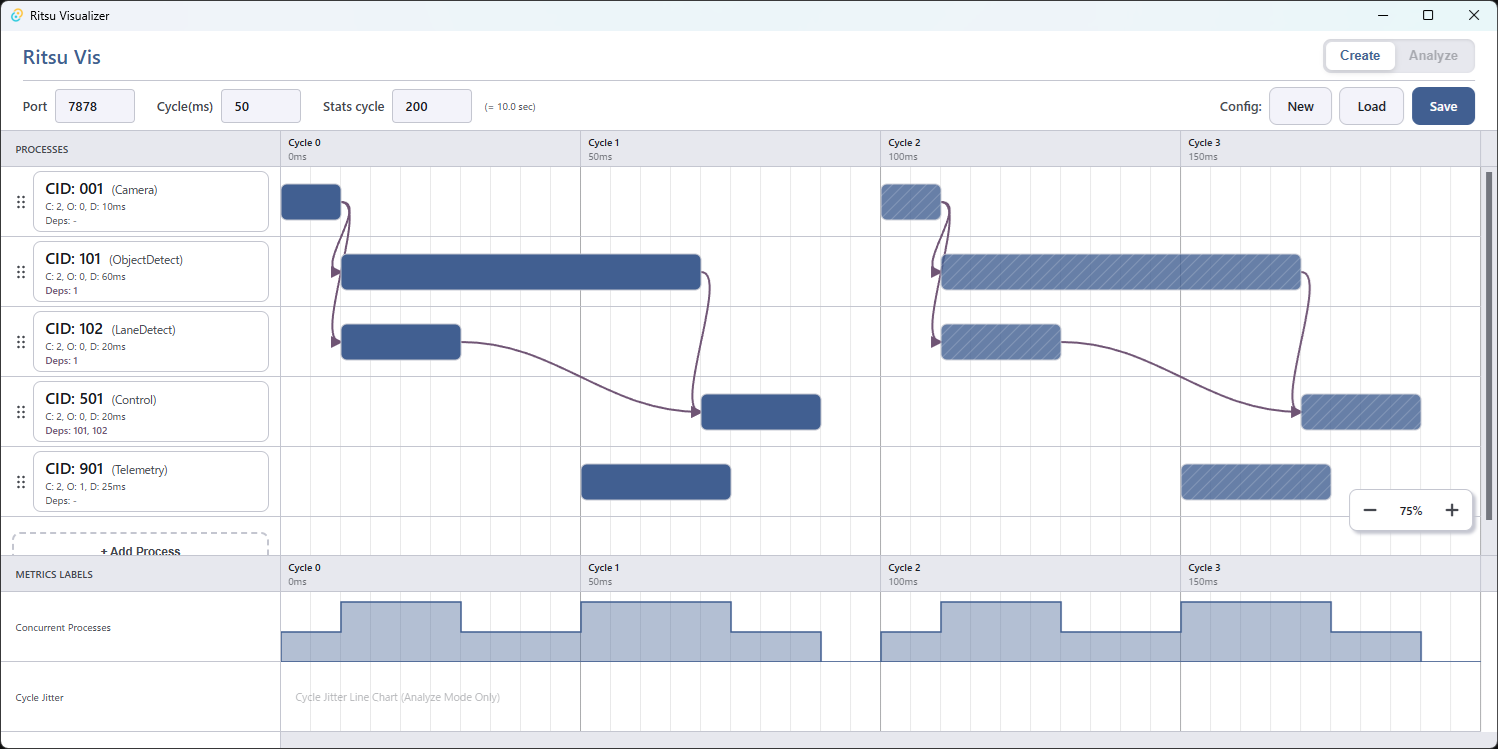
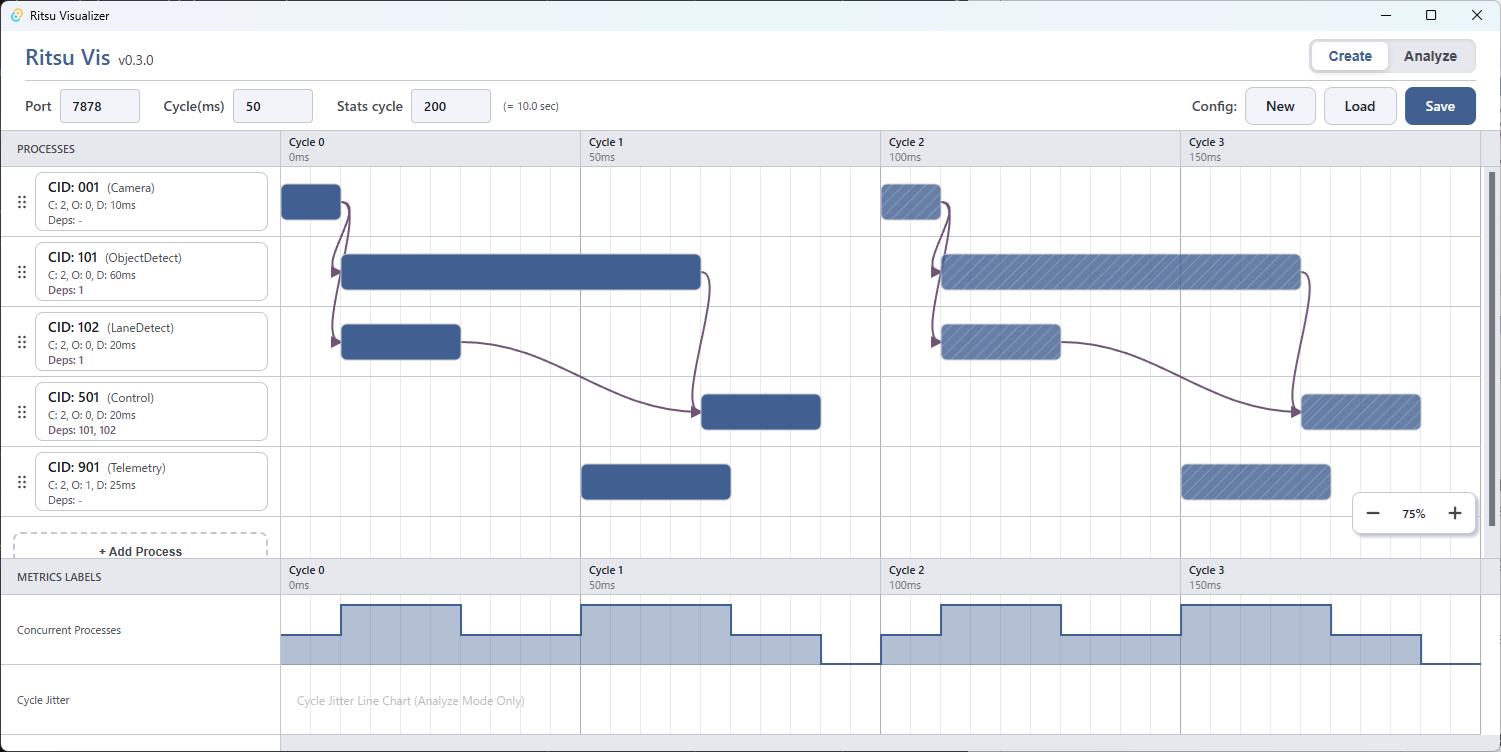
docs: showcase visualizer capabilities with screenshots in README
Enrich repository README with visualizer highlights and updated screenshots to clearly convey core scheduling concepts and runtime analysis capabilities.

diff --git a/README.md b/README.md
@@ -14,6 +14,12 @@ A lightweight, deterministic process scheduler that manages user processes consi
   - This repository includes sample clients for **Rust**, **Python**, and **C/C++**.
 - **Simulation & Visualization**: Advanced tools for system planning and scheduling analysis.
 
+**Visualizer Highlights:**
+| Create Mode | Analyze Mode |
+| :---: | :---: |
+| <img src="docs/assets/rt-vis_create-process-edit.png" width="350" /><br />Configure process periods, execution times, and dependencies. | <img src="docs/assets/rt-vis_analyze-actual-overlay.png" width="350" /><br />Overlay actual execution logs onto scheduled plans, inspecting timing deltas and exact log lines. |
+| <img src="docs/assets/rt-vis_create-realtime-validation.png" width="350" /><br />Interactive drag-and-drop editing immediately highlights deadline overruns and cascading delays. | <img src="docs/assets/rt-vis_analyze-concurrency.png" width="350" /><br />Track planned vs actual concurrent processes to identify system load peaks and bottlenecks. |
+
 ## Process Scheduling
 
 This section describes how Ritsu schedules your processes using a sequence diagram.
@@ -68,4 +74,3 @@ Detailed specifications and guides can be found in the [docs](./docs/README.md) 
 ## License
 
 This project is licensed under the Apache License, Version 2.0. See the [LICENSE](LICENSE) file for details.
-
